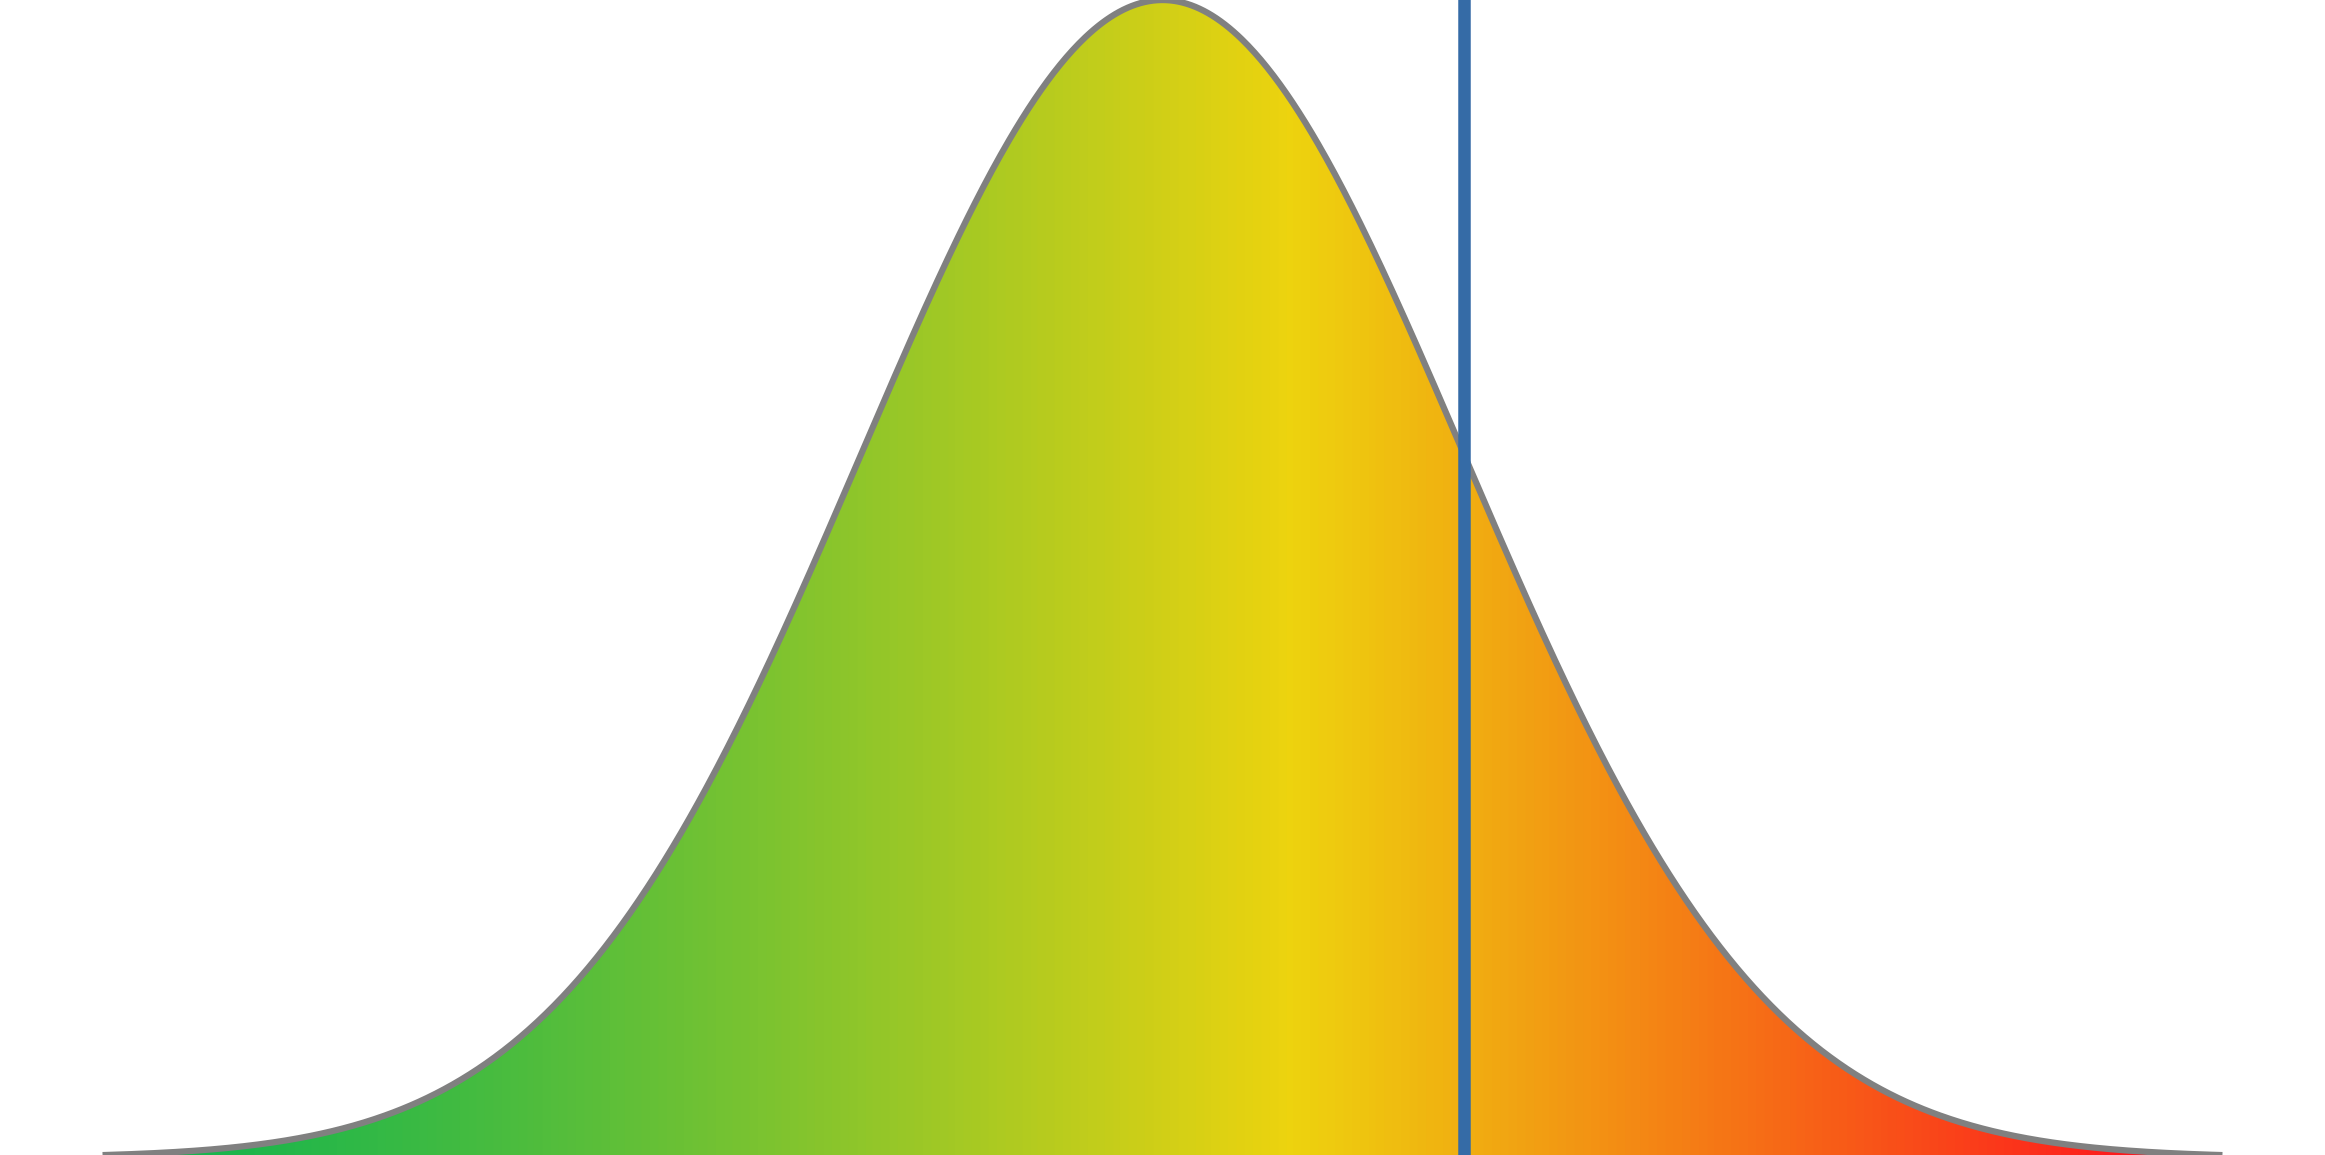
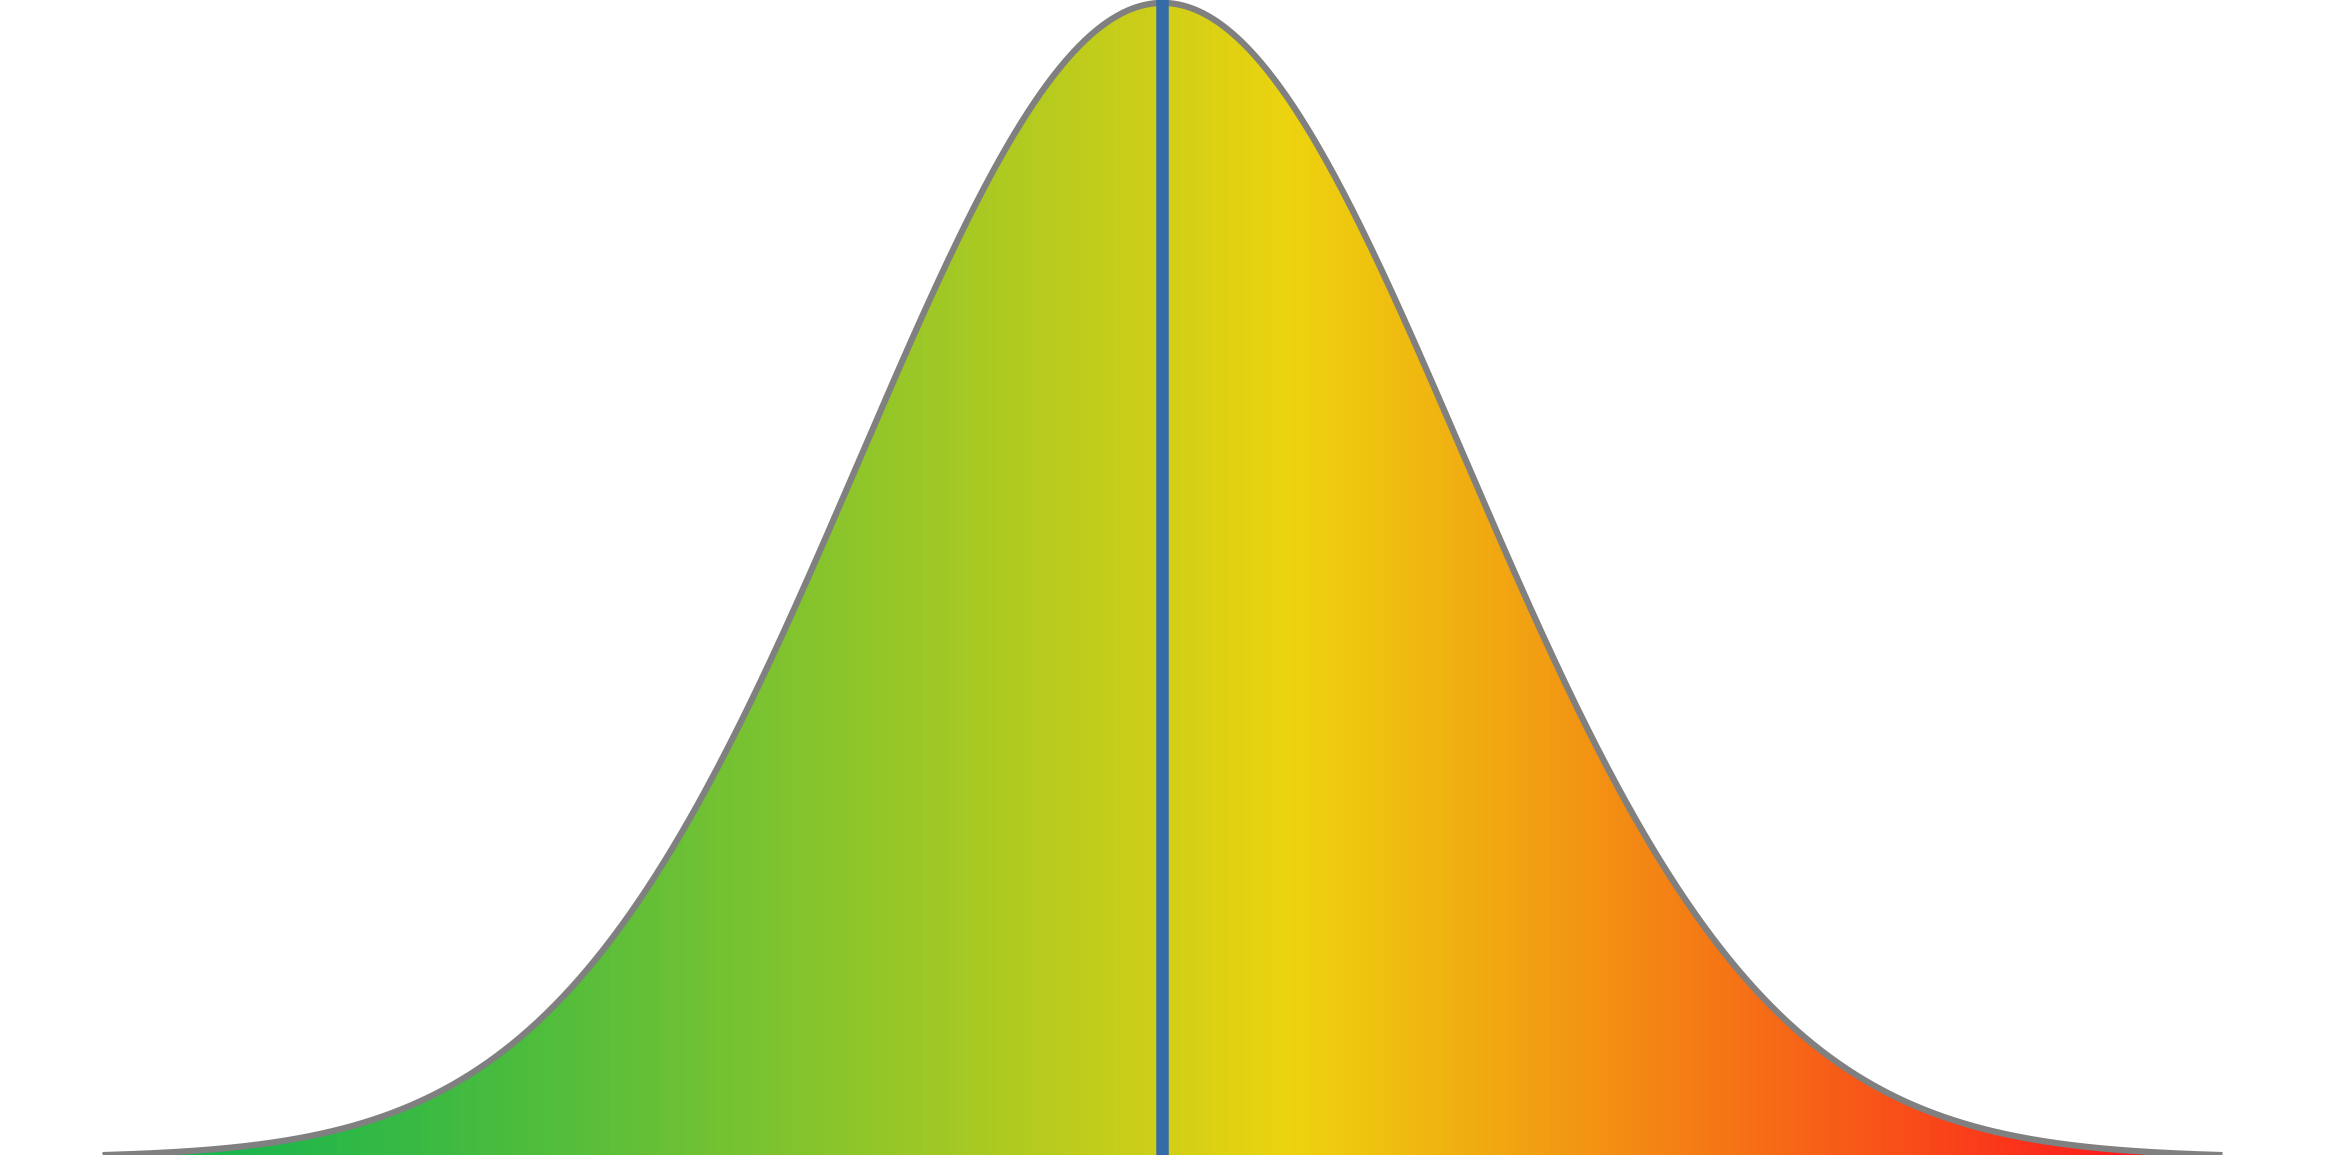
fix plots

Changed region(s): [[0.4645, 0.0, 0.5265, 1.0], [0.6194, 0.0, 0.6503, 1.0]]

diff --git a/main.py b/main.py
@@ -37,11 +37,11 @@ N = 1000
 a = 3.5   
 value = 1
 
-part = [20, 25, 30, 40, 50 ,55, 45, 50, 30]
+part = [20, 25, 30, 40, 50 ,55, 45, 50, 90]
 
-procent_speed = 70
+procent_speed = 50
 
-def normal_dist(N, a, value):
+def normal_dist(N: int, a: float, value: float):
     x = np.linspace(-a, a, N)
     y = (1 / np.sqrt(2 * np.pi)) * np.exp(-0.5 * x**2)  # Формула для нормального распределения
 
@@ -49,7 +49,7 @@ def normal_dist(N, a, value):
 
     plt.figure(figsize=(10, 5))
 
-    plt.ylim(min(y), max(y) + 0.00001)
+    plt.ylim(min(y), max(y) + 0.001)
 
     plt.xticks([])  # Убрать деления по оси X
     plt.yticks([])  # Убрать деления по оси Y
@@ -64,7 +64,17 @@ def normal_dist(N, a, value):
 
     plt.plot(x, y, color='grey')
 
-    plt.axvline(value, ymin=min(y) * 1/max(y), ymax=1,color='#356ba6', linestyle='-', linewidth=3, clip_on=True)
+    checked_value = 0
+    if value < 0:
+        checked_value = 0
+    elif value > 100:
+        checked_value = 100
+    else:
+        checked_value = value
+
+    line = 2*a*checked_value/100 - a
+
+    plt.axvline(line, ymin=min(y) * 1/max(y), ymax=1,color='#356ba6', linestyle='-', linewidth=3, clip_on=True)
 
     plt.savefig("assets/normal.png", bbox_inches='tight' , pad_inches=0)
     return 'normal.png'
@@ -75,10 +85,14 @@ def main_plot(part):
 
     numbers=[1,2,3,4,5,6,7,8,9]
 
-    y_line = np.linspace(14.3,0.2,9)
+    left_margin = dict(zip(names, [16.8,21.55,21.9,28.3,28,23.4,13,18,18]))
+
+    y_line = np.linspace(14.3,-0.5,9)
+
+    print(y_line)
 
     plt.figure(figsize=(7,5))
-    plt.plot(part, y_line, 'ro', marker='o', markersize=0)
+    # plt.plot(part, y_line, marker='o', markersize=0)
 
     plt.rcParams['font.family'] = 'bahnschrift'
     plt.rcParams['figure.dpi'] = 300
@@ -105,7 +119,11 @@ def main_plot(part):
 
         prop = dict(boxstyle='Round', facecolor=cmap(i_x/100), alpha=1, edgecolor=cmap(i_x/100),pad=0.8)
 
-        plt.text(i_x+1, i_y+0.7, names[n], color = 'black',  bbox=prop, fontsize = 9)
+        if i_x > 80:
+            mg = left_margin[names[n]]
+            plt.text(i_x-mg, i_y+0.7, names[n], color = 'black',  bbox=prop, fontsize = 9)
+        else:
+            plt.text(i_x+1, i_y+0.7, names[n], color = 'black',  bbox=prop, fontsize = 9)
         plt.text(i_x, i_y, numbers[n], color = 'black',  bbox=number, fontsize = 7)
         n=n+1
     plt.gca().spines['bottom'].set_color('blue')
@@ -264,8 +282,8 @@ app.layout = html.Div([
                 # html.Img(src=app.get_asset_url('rArrow.png'), style={'width':'25px'}),
             ],style={'display':'flex', 'width':'100%','height':'30px'}),
             html.Div([
-                html.Img(src=app.get_asset_url('risk_bar.png'), style={'width':'98.2%','pointer-events':'none'}),
-            ], style={'margin':'0px', 'width':'100%','height':'50px'}),
+                html.Img(src=app.get_asset_url('risk_bar.png'), style={'width':'100%','pointer-events':'none', 'margin-left':'3px', 'margin-right':'0px'}),
+            ], style={'width':'100%','margin':'0px','height':'50px'}),
             html.Div([
                 html.Img(src=app.get_asset_url(f'{main_plot(part=part)}'), style={'width':'100%','margin-top':'10px'}),
             ], style={'display':'flex', 'justify-content':'space-between', 'width':'100%','height':'330px'}),
@@ -275,7 +293,7 @@ app.layout = html.Div([
                 html.Img(src=app.get_asset_url('people.png'), style={'width':'180px','height':'180px','margin':'0px','margin-top':'10px'}),
                       ], style={'height':'190px','text-align':'center'}),
             html.P('На основании панорамного метаболомного профиля был оценен темп старения организма',style={'color':'black','height':'60px','font-family':'Calibri','font-size':'16px','margin':'0px','margin-left':'10px','text-align':"left "}),
-            html.Div([html.Img(src=app.get_asset_url(f'{normal_dist(N,a,value)}'), style={'width':'100%','margin-top':'10px'})], style={'height':'150px'}),
+            html.Div([html.Img(src=app.get_asset_url(f'{normal_dist(N,a,procent_speed)}'), style={'width':'100%','margin-top':'10px'})], style={'height':'150px'}),
             html.Div([
                 html.P("медленно",style={'margin':'0px','margin-left':'10px'}),
                 html.P("нормально",style={'margin':'0px'}),
